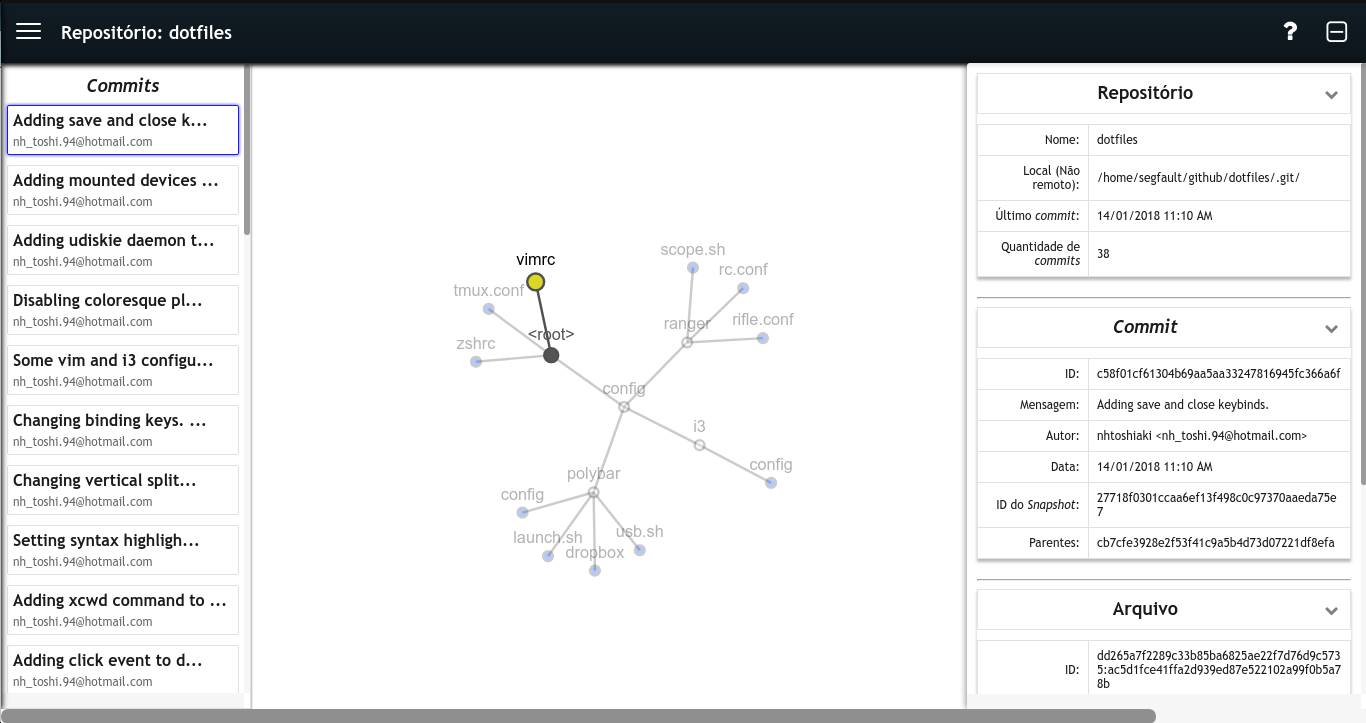
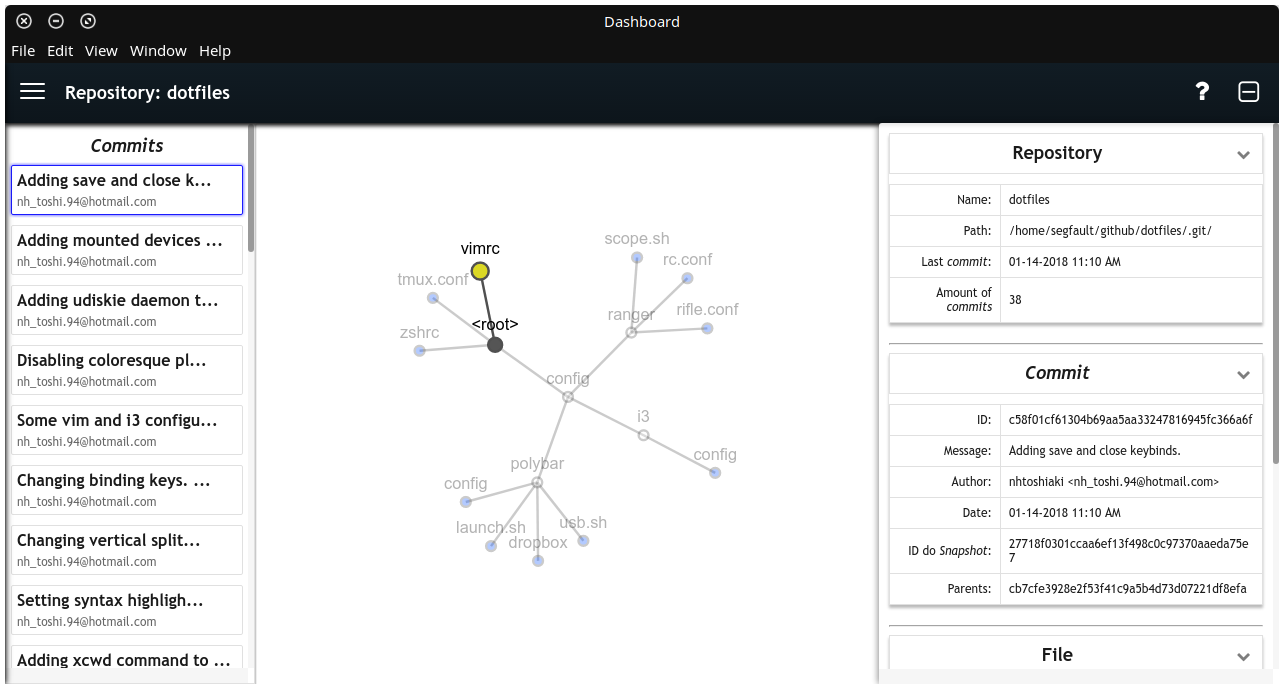
Removing bottom scrollbar and updating preview.png.

diff --git a/_sass/dashboard.scss b/_sass/dashboard.scss
@@ -198,6 +198,7 @@ body {
     right: 0;
     padding: 0;
     width: 100%;
+    overflow: hidden;
 }
 
 #commitBar {

diff --git a/style/dashboard.css b/style/dashboard.css
@@ -189,6 +189,7 @@ body {
   right: 0;
   padding: 0;
   width: 100%;
+  overflow: hidden;
 }
 
 #commitBar {
